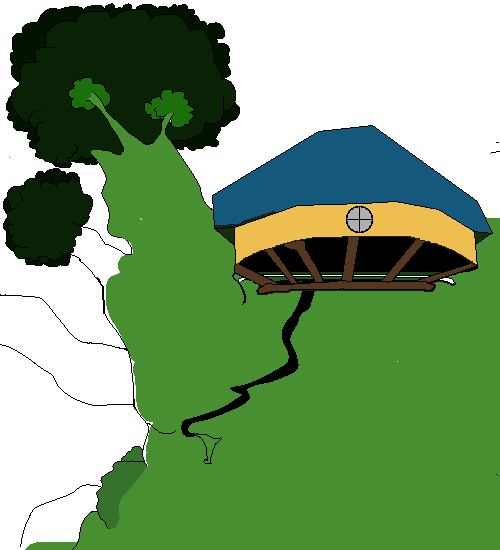
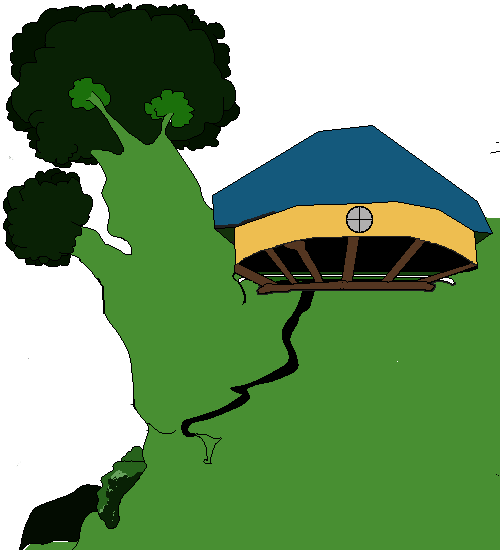
add a bit of detail with bottom body of tree

diff --git a/js/WorldForest.js b/js/WorldForest.js
@@ -53,10 +53,10 @@ var levelForestFour = [  53,53,53,53,53,53,53,53,0,0,0,0,0,0,0,0,0,0,53,53,
            53,0,0,0,0,0,0,53,0,0,0,0,0,0,0,0,0,0,53,53,
            53,0,0,0,0,0,0,53,0,0,0,0,0,0,0,0,0,0,53,53,
            53,0,0,0,0,0,0,53,0,0,0,0,0,0,0,0,0,0,53,53,
-           53,0,0,0,0,0,0,53,53,53,0,0,0,0,0,0,0,0,53,53,
-           53,0,0,0,0,0,0,0,0,53,0,0,0,0,0,0,79,0,53,53,
-           53,0,0,0,0,0,0,42,77,53,0,0,0,0,0,0,4,0,53,53,
-           53,0,0,0,0,0,0,53,53,0,0,0,0,0,0,0,4,0,53,53,
+           53,0,0,0,0,0,53,53,0,0,0,0,0,0,0,0,0,0,53,53,
+           53,0,0,0,0,0,0,53,0,0,0,0,0,0,0,0,79,0,53,53,
+           53,0,0,0,0,77,42,53,53,0,0,0,0,0,0,0,4,0,53,53,
+           53,0,0,0,0,53,53,53,53,0,0,0,0,0,0,0,4,0,53,53,
            53,0,0,0,0,0,77,53,66,0,0,0,0,0,0,0,4,0,53,53,
            53,77,0,0,80,0,53,53,0,0,0,0,0,0,0,0,4,0,53,53,
            53,53,0,53,53,53,53,0,0,0,0,0,0,0,0,0,4,0,53,53,
